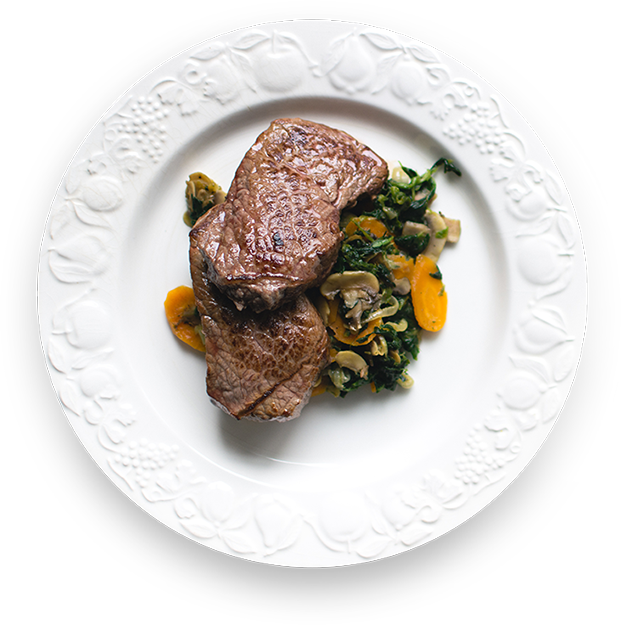
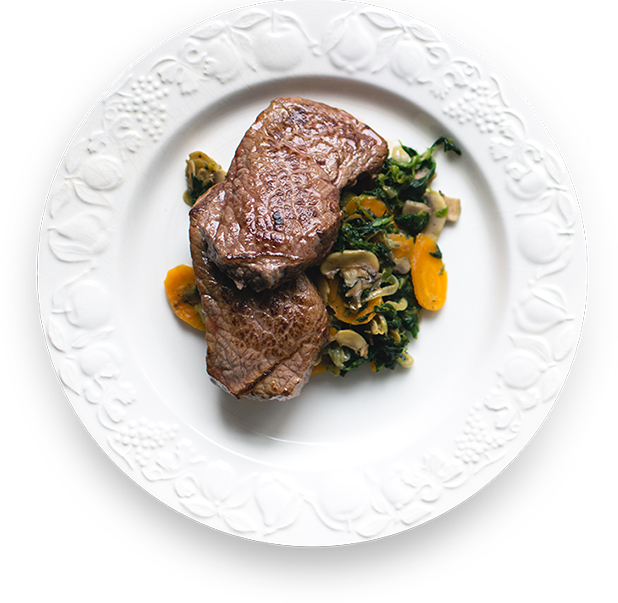
refactor: update styles of the `right-food` block

diff --git a/src/styles/styles.css b/src/styles/styles.css
@@ -256,35 +256,36 @@ main {
 .right-food {
     background-image: url("../images/pattern-round.png");
     background-repeat: repeat;
-    padding: 100px 0 50px 0;
+    background-position: top;
+    padding: 100px 0 31px 0;
 }
 
 .right-food__container {
     max-width: 1250px;
     margin: 0 auto;
-    padding: 0 75px;
-    background-image:url("../images/dish.png");
-    background-repeat: no-repeat;
-    background-size: contain;
-    background-position: right top;
-    min-height: 621px;
+    padding: 0 40px;
+    display: flex;
+    flex-wrap: wrap;
+    justify-content: space-between;
+    align-items: flex-start;
 }
 
 .right-food__text-block {
-    max-width: 46ch;
+    padding: 0 10px;
     text-align: center;
-    float: left;
-    margin-right: 50px;
+    display: flex;
+    flex-direction: column;
+    justify-content: center;
+    align-items: center;
+    flex: 0 0 50%;
 }
 
 .right-food__title {
     font-size: 36px;
-    line-height: 24px;
+    line-height: 43px;
     color:  #cc9900; 
-    font-weight: 400;
-    font-family: "Yeseva One";
     position: relative;
-    margin-bottom: 60px;
+    margin-bottom: 61px;
 
 }
 
@@ -294,20 +295,37 @@ main {
     background-image: url("../images/divider-gold.png");
     width: 247px;
     height: 24px;
-    bottom: -40px;
+    bottom: -37px;
     left: 50%;
     transform: translateX(-50%);
 }
 
 .right-food__text {
+    max-width: 46ch;
     margin-bottom: 50px;
     font-size: 16px;
     line-height: 24px;
 }
 
+.right-food__image {
+    text-align: center;
+    transform: translate(16%);
+}
+
 .right-food__image img {
     display: inline-block;
-    transform: translateX(20%);
+    max-width: 100%;
+}
+
+.right-food__bg-image {
+    margin-top: -24px;
+    margin-left: -54px;
+    flex: 1 1 50%;
+}
+
+.right-food__bg-image img{
+    display: block;
+    max-width: 100%;
 }
 
 .ingredients {

diff --git a/index.html b/index.html
@@ -69,9 +69,9 @@
                         <img src="./src/images/cook.png" alt="Photo of restaurant's Chef with his signature">
                     </figure>
                 </div>
-                <!-- <figure class="right-food__bg-image">
+                <figure class="right-food__bg-image">
                     <img src="./src/images/dish.png" alt="Delicious steak served with veggies on the white plate.">
-                </figure> -->
+                </figure>
             </div>
         </section>
         <section class="ingredients">
